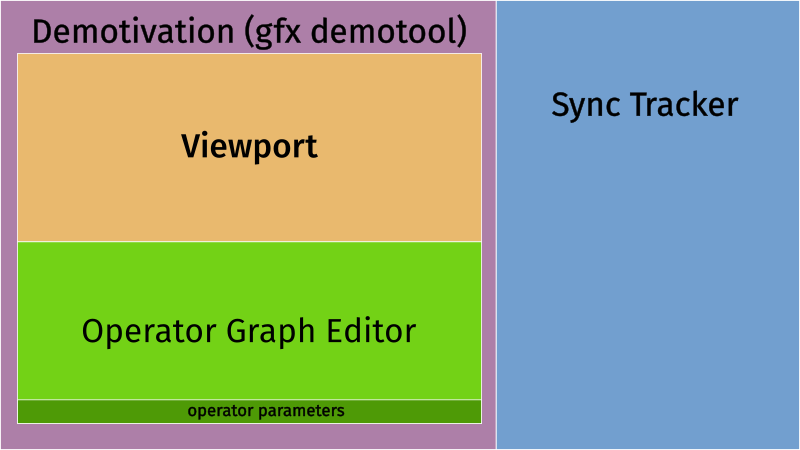
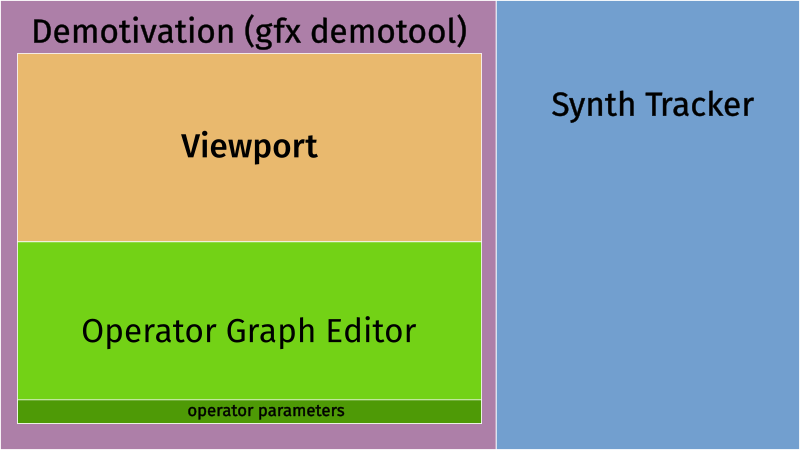
typos

Changed region(s): [[0.75, 0.1867, 0.9375, 0.28]]

diff --git a/README.md b/README.md
@@ -29,7 +29,7 @@ The plan is that the tool will be (eventually) open-source as a public mirror, w
         - [Graph Colors and Concepts](#graph-colors-and-concepts)
         - [Operators](#operators)
         - [Graph execution and asset management](#graph-execution-and-asset-management)
-    - [Sync Tracker](#sync-tracker)
+    - [Synth Tracker](#synth-tracker)
     - [Sample Project](#sample-project)
         - [Rendering pipeline](#rendering-pipeline)
     - [Packaging the final EXE](#packaging-the-final-exe)
@@ -60,9 +60,9 @@ The plan is that the tool will be (eventually) open-source as a public mirror, w
 
 ## Tool Windows Overview
 
-The screenshot shows a raymarched scene, its operator graph and a sync tracker window.
+The screenshot shows a raymarched scene, its operator graph and a synth tracker window.
 
-On left side is the demotool window, on the right side is the sync tracker window (separate application). The demotool connects to the sync tracker on a `localhost` port.
+On left side is the demotool window, on the right side is the synth tracker window (separate application). The demotool connects to the synth tracker on a `localhost` port.
 
 ![tool window screenshot](./assets/tool-window-overview-screenshot.png)
 
@@ -94,7 +94,7 @@ The blocks are a tree, represented with blocks on a grid.
 
 As a **data model**, the graph is a hashmap of **positions** on a grid to **operators**. Operators are tagged enums. Each operator has an expression, a string which is later interpreted to values.
 
-(`00:31:18`) An expession `sync("Post:black")` will grab a value from the sync tracker.
+(`00:31:18`) An expession `sync("Post:black")` will grab a value from the synth tracker.
 
 The graph is recompiled at every keypress and rendered, or errors are printed on the console.
 
@@ -169,11 +169,11 @@ The context for the function:
 
 In the byte code this is turned into indexes in a big ordered list.
 
-## Sync Tracker
+## Synth Tracker
 
 Allows to move backwards and forwards in time, play and stop, etc.
 
-This is based on GNU Rocket, although it doesn't have any code left from the original Rocket. The main part is a data format and protocol to do sync via a [client-server IPC][IPC] (Inter-process Communication) model.
+This is based on GNU Rocket, although it doesn't have any code left from the original Rocket. The main part is a data format and protocol to do synth tracking via a [client-server IPC][IPC] (Inter-process Communication) model.
 
 The editor was created by (... ?)
 
